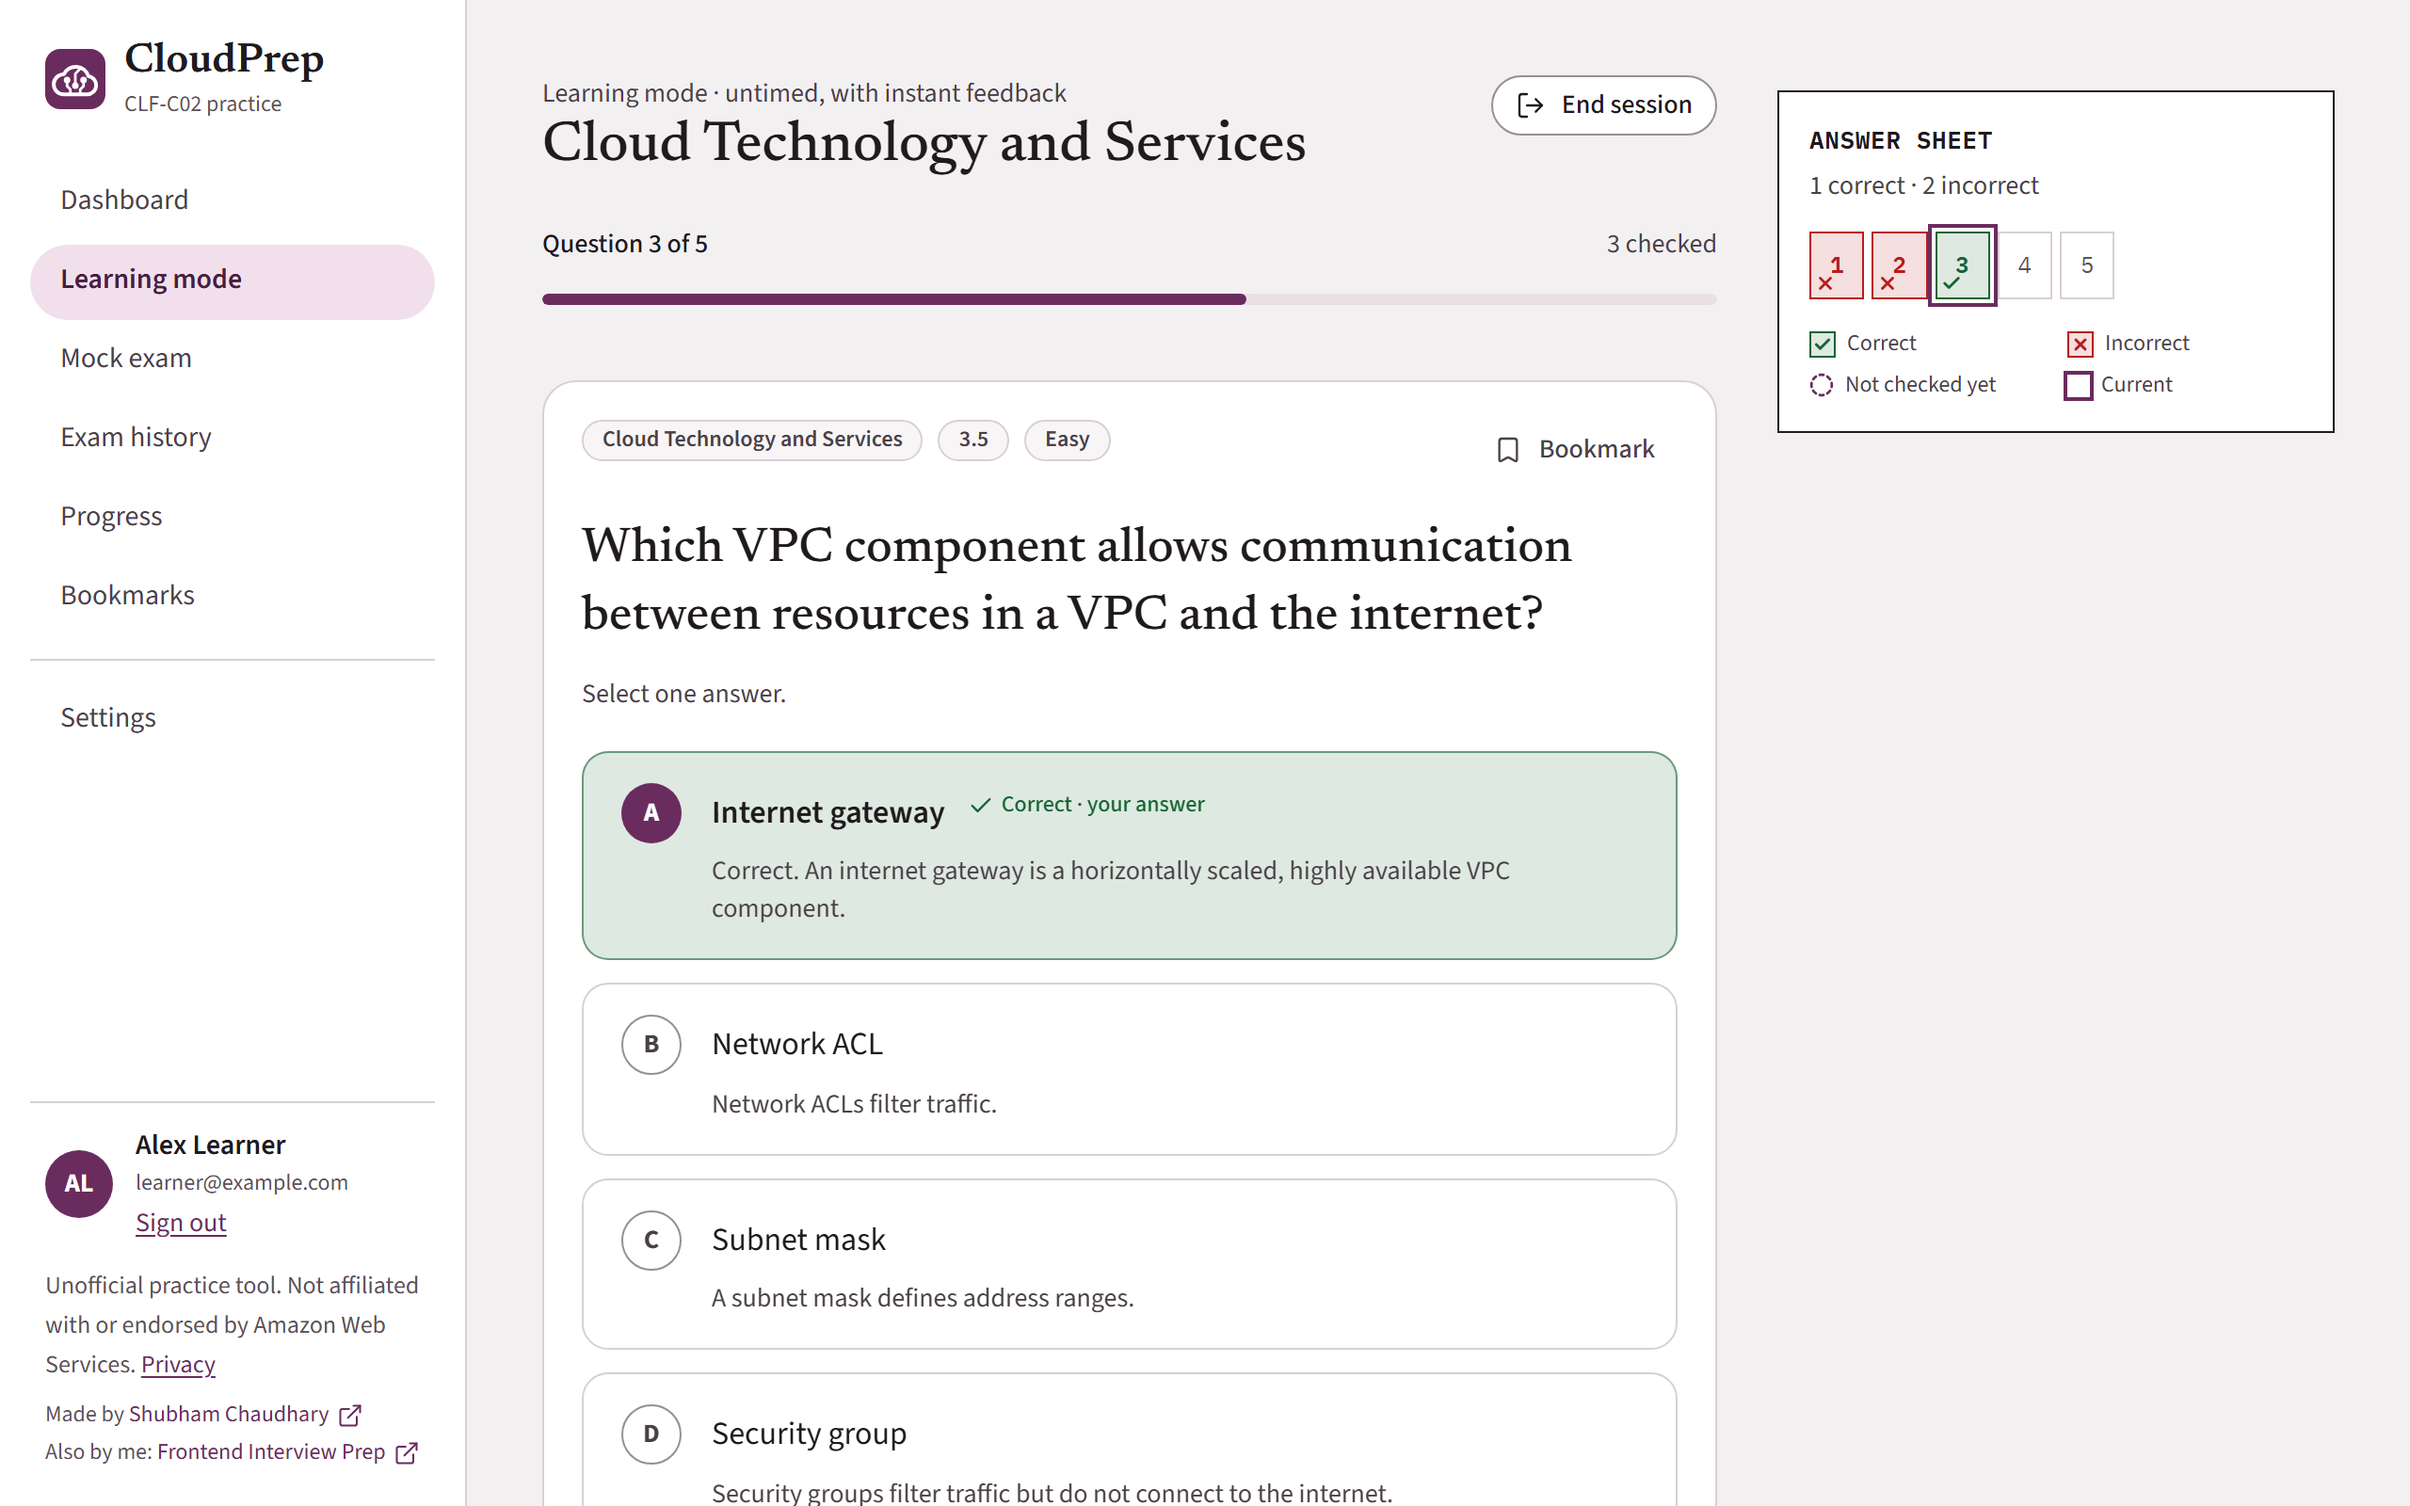
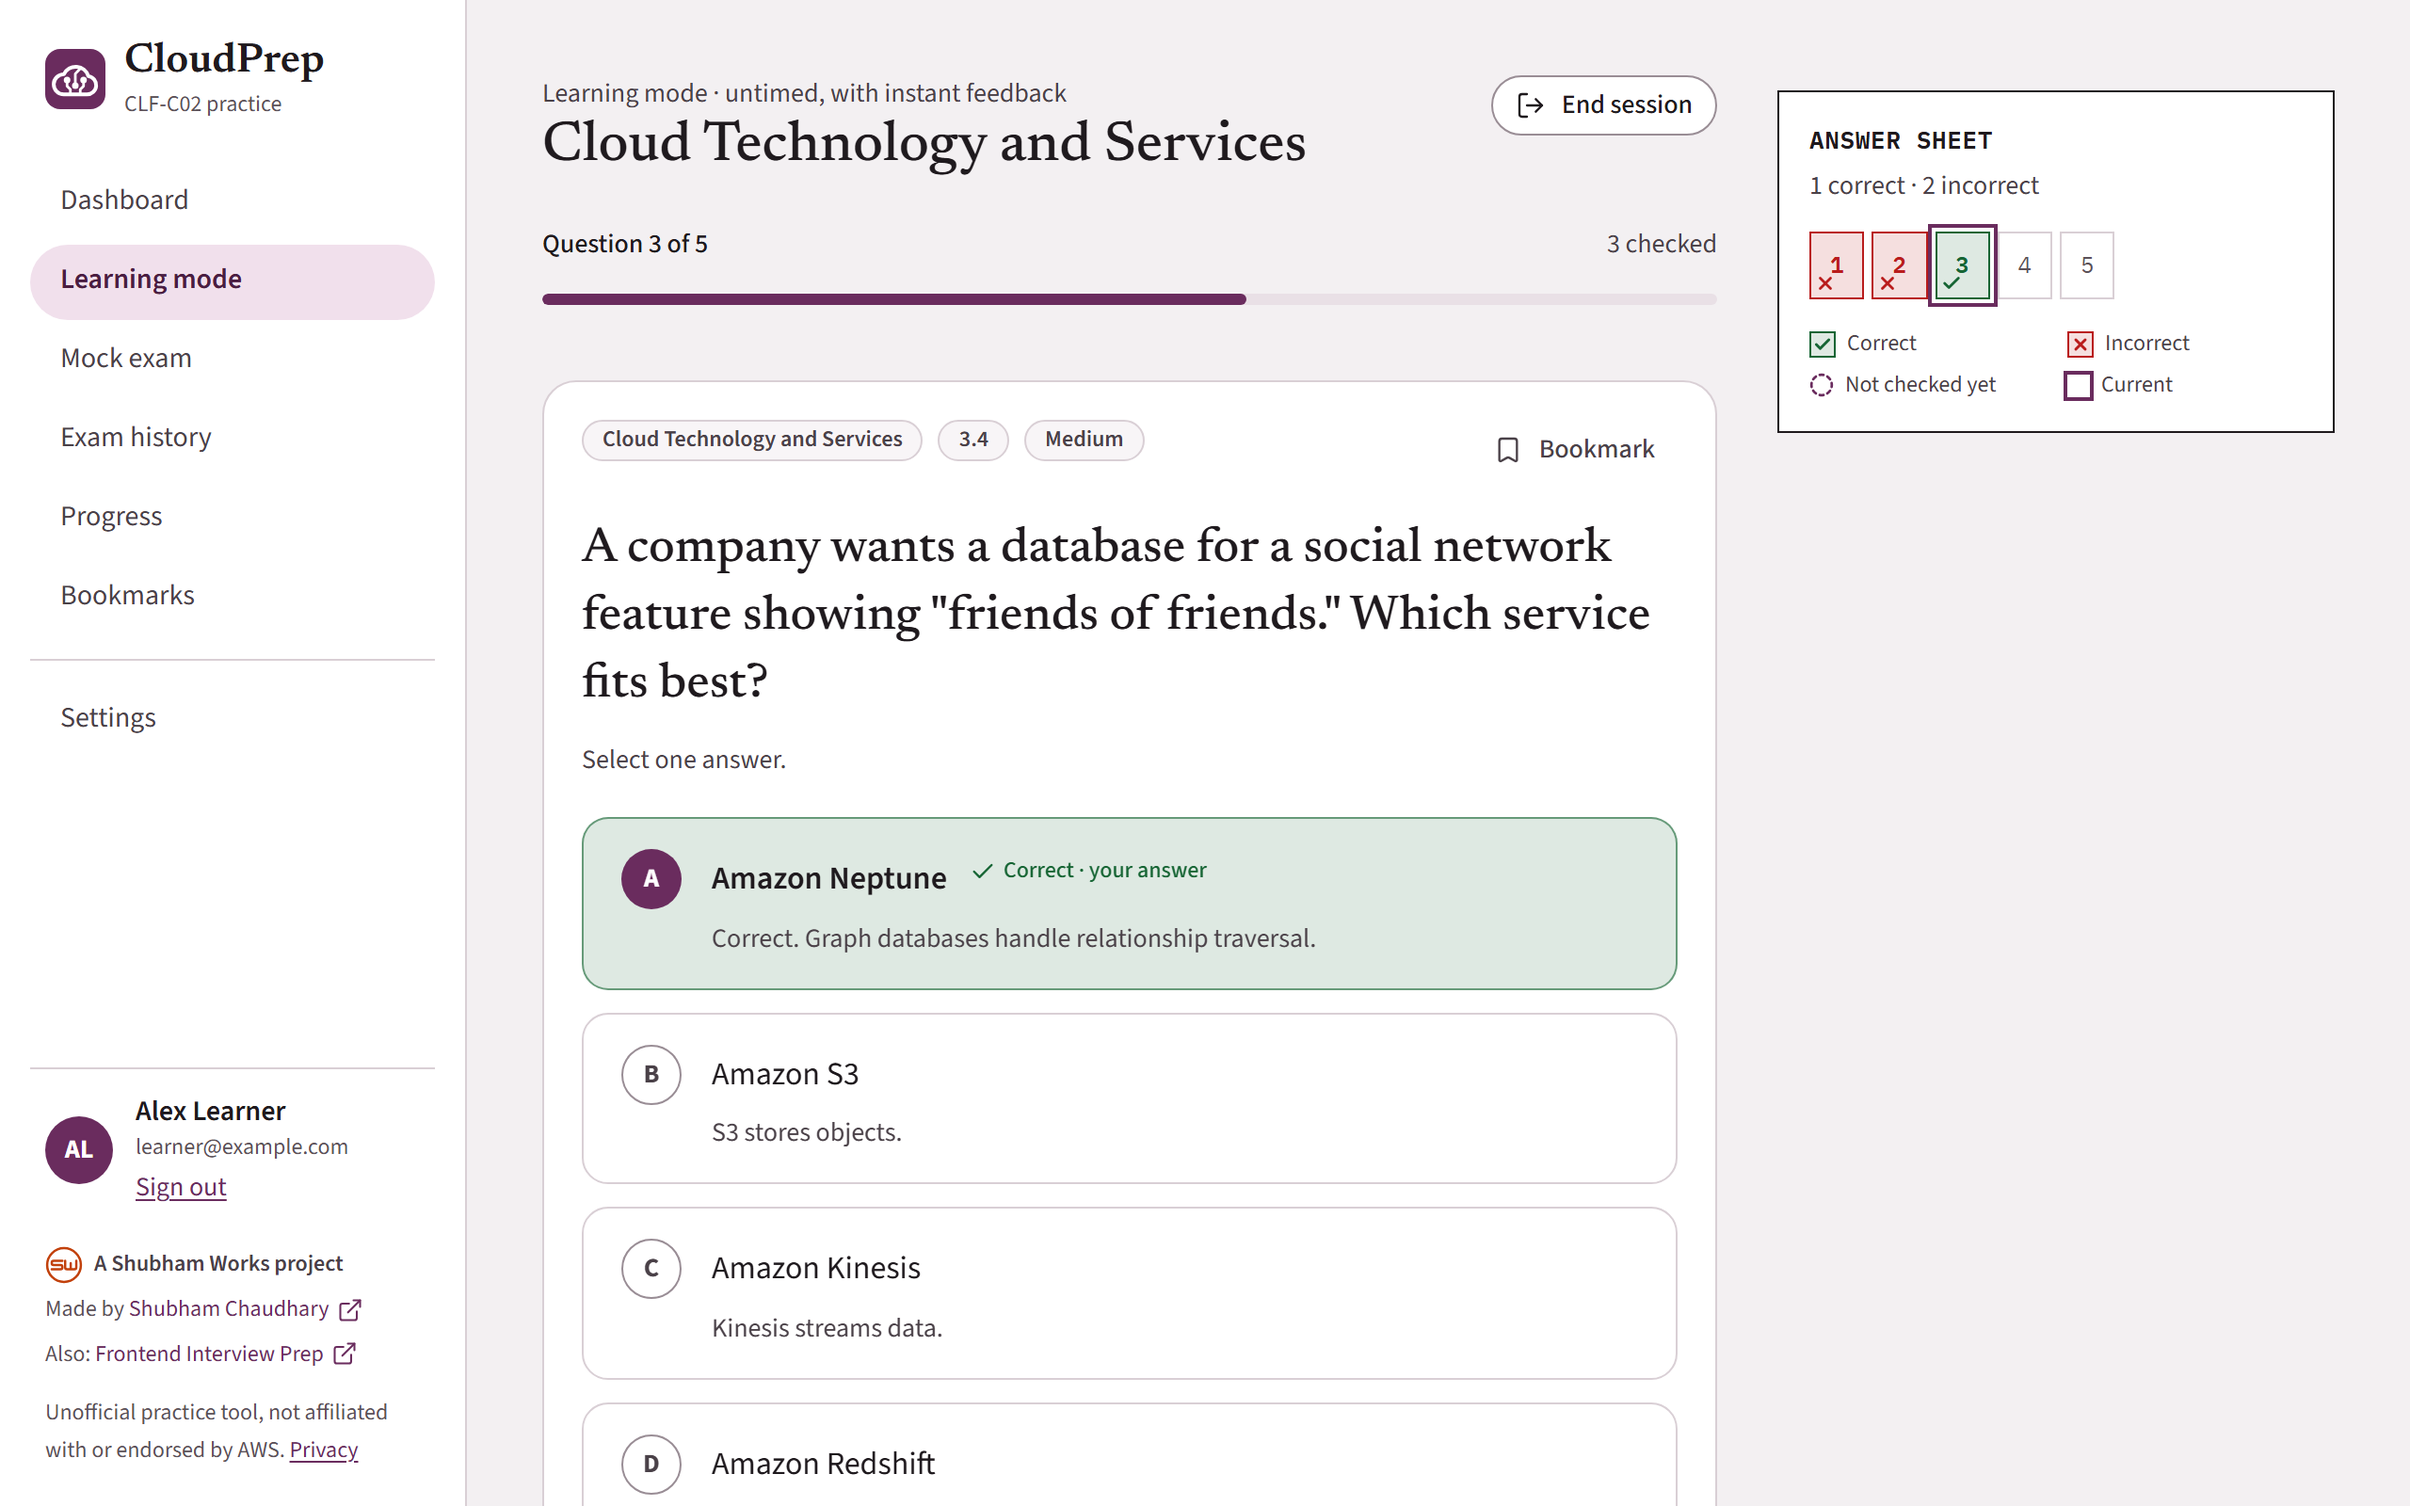
README: retake the Learning mode screenshot with the Shubham Works footer

diff --git a/docs/DECISIONS.md b/docs/DECISIONS.md
@@ -434,7 +434,7 @@ The user asked (2026-10-22) for questions to come from a backend, for sign-in so
 
 - **Context:** the README is the project's first impression on GitHub (CloudPrep is on the user's resume), but it opened with a wall of bullets and no pictures. The user asked to make it more appealing and keep content that already made sense.
 - **Decision:** a centered header (logo, one-line pitch, live-site button, shields.io badges, quick links), the AWS disclaimer as a GitHub note, an at-a-glance strip matching the landing page's metrics, and three screenshots: the landing page, Learning mode with feedback (light) and a mock exam (dark). "What it does" keeps every bullet word for word, grouped under Practise, Accounts and your data, Practice integrity, Design and For the site owner; the credit moved to a "Made by" section with the Frontend Interview Prep link. One fact was fixed: the tech stack still named Inter, replaced in D-057.
-- **Screenshots:** 1280×800 at 2× from the E2E build (fake sign-in, reduced motion), stored in `docs/images/`. They show the UI as of 3.2.0; retake them after a visible UI change.
+- **Screenshots:** 1280×800 at 2× from the E2E build (fake sign-in, reduced motion), stored in `docs/images/`. They show the UI as of 3.2.0, except the Learning mode shot, retaken for 3.4.0 to show the Shubham Works footer (D-062); retake them after a visible UI change.
 - **Not added:** a GIF or video (large files in the repo), a dashboard shot (a new account shows mostly empty states).
 
 ## D-061 — Open source licences
